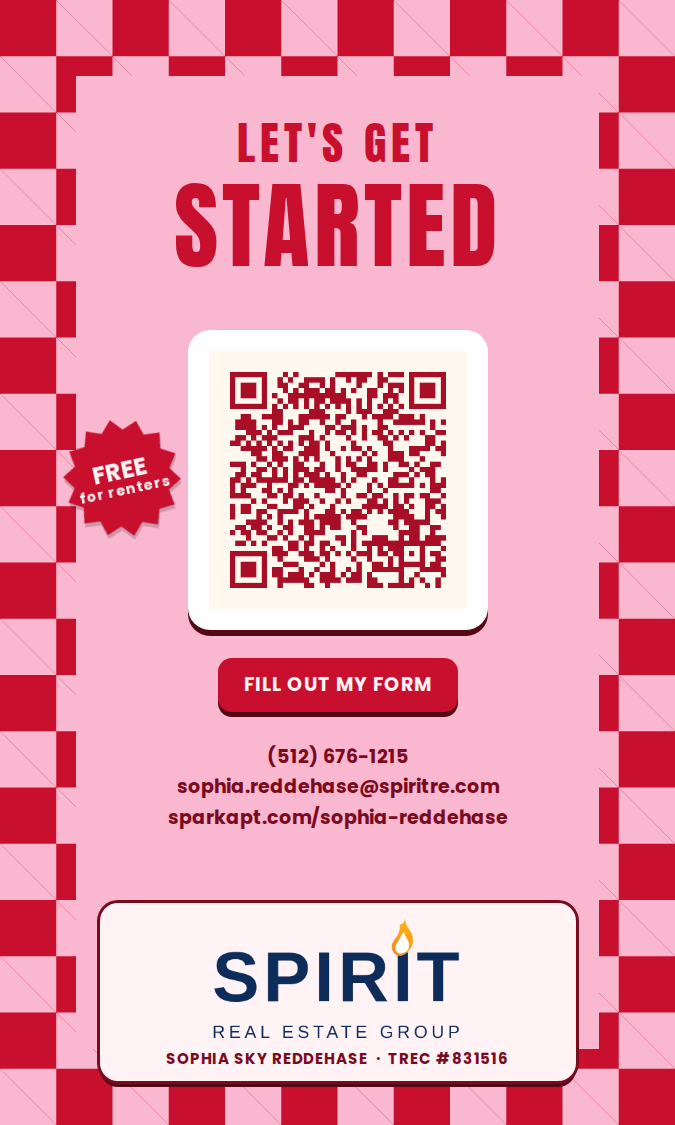
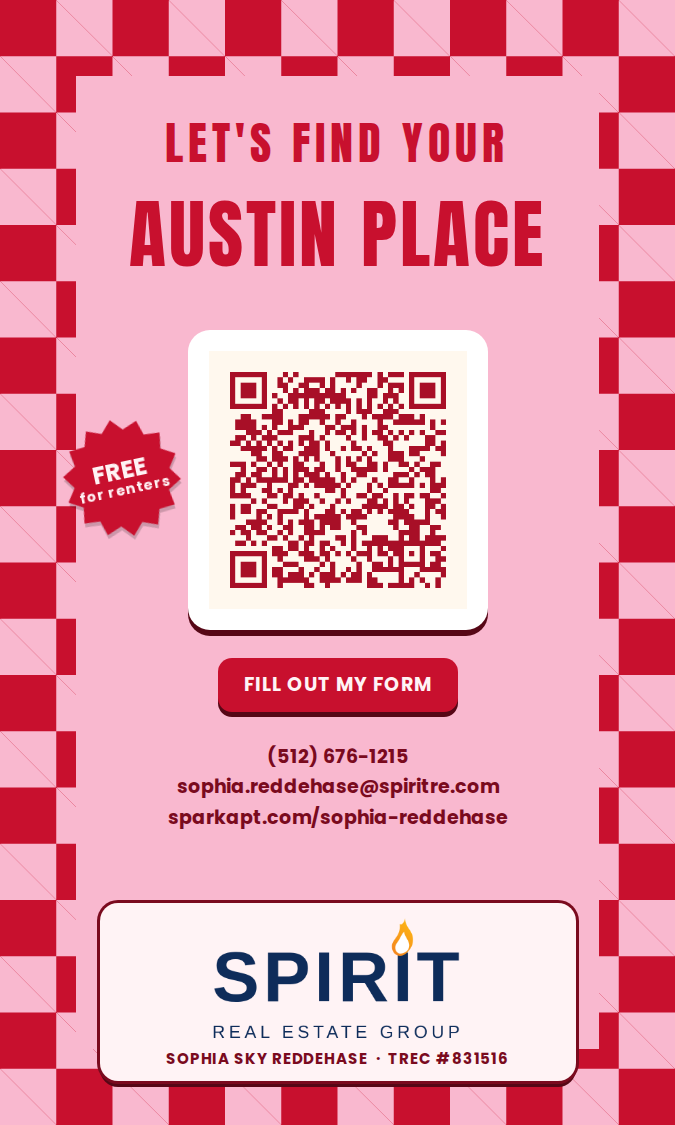
Austin wording on the three new verticals
She asked for the vertical cards' copy rephrased into apartment-locating
language for Austin, fitted in where it goes without disturbing layouts,
and skipped where it doesn't. So:

  Perfect Place  "I know a girl who finds the perfect apartment!" becomes
                 "...who finds apartments in Austin!" — same joke shape as
                 the reference, but it now says what she does and where
  Social Checks  "LET'S GET / STARTED" becomes "LET'S FIND YOUR / AUSTIN
                 PLACE"; 96px to 76px so the longer line still fits the
                 panel, which also improves its ratio
  all three      role line reads "Austin Apartment Locator"

The thirteen landscape styles keep "Texas Apartment Locator" — the change
had nowhere to go on them without moving type she has already signed off,
and several of their backs already carry "Austin & surrounding areas".

Social Checks' lower panel was left empty by the shorter stack; three
sparkles in the card's own pink fill it rather than more words.

No colour changed. All 32 faces were already on the original navy-and-flame
Spirit artwork; the only other navy in the suite is Terracotta Cobalt's own
cobalt, which it has had from the start.

Regenerating the verticals resets the FREE sticker positions, so the solver
and its check ran again afterwards: every sticker still clears the code and
the type, all 16 codes decode, all 32 exports are their target size, no
[…]

Changed region(s): [[0.1867, 0.0933, 0.8089, 0.2489]]

diff --git a/business_cards/cards_v2/14_social_checks/front.html b/business_cards/cards_v2/14_social_checks/front.html
@@ -63,6 +63,9 @@
 
     <div class="sparkle" style="top:170px; left:104px;"><svg width="46" height="46" viewBox="0 0 40 40"><path d="M20 1 C21.6 12 28 18.4 39 20 C28 21.6 21.6 28 20 39 C18.4 28 12 21.6 1 20 C12 18.4 18.4 12 20 1 Z" fill="#f9b8cf"/></svg></div>
     <div class="sparkle" style="top:520px; left:540px;"><svg width="38" height="38" viewBox="0 0 40 40"><path d="M20 1 C21.6 12 28 18.4 39 20 C28 21.6 21.6 28 20 39 C18.4 28 12 21.6 1 20 C12 18.4 18.4 12 20 1 Z" fill="#f9b8cf"/></svg></div>
+    <div class="sparkle" style="top:762px; left:120px;"><svg width="52" height="52" viewBox="0 0 40 40"><path d="M20 1 C21.6 12 28 18.4 39 20 C28 21.6 21.6 28 20 39 C18.4 28 12 21.6 1 20 C12 18.4 18.4 12 20 1 Z" fill="#f9b8cf"/></svg></div>
+    <div class="sparkle" style="top:840px; left:212px;"><svg width="30" height="30" viewBox="0 0 40 40"><path d="M20 1 C21.6 12 28 18.4 39 20 C28 21.6 21.6 28 20 39 C18.4 28 12 21.6 1 20 C12 18.4 18.4 12 20 1 Z" fill="#f9b8cf"/></svg></div>
+    <div class="sparkle" style="top:756px; left:452px;"><svg width="40" height="40" viewBox="0 0 40 40"><path d="M20 1 C21.6 12 28 18.4 39 20 C28 21.6 21.6 28 20 39 C18.4 28 12 21.6 1 20 C12 18.4 18.4 12 20 1 Z" fill="#f9b8cf"/></svg></div>
 
     <!-- tall condensed caps, as on the pin -->
     <div class="name">
@@ -75,7 +78,7 @@
       </svg>
     </div>
 
-    <div class="role">Texas Apartment Locator</div>
+    <div class="role">Austin Apartment Locator</div>
     <div class="services">Relocation &nbsp;&#183;&nbsp; Second Chance &nbsp;&#183;&nbsp; First-Time Renters &nbsp;&#183;&nbsp; Luxury</div>
 
     <div class="brokermark">

diff --git a/business_cards/cards_v2/14_social_checks/back.html b/business_cards/cards_v2/14_social_checks/back.html
@@ -41,8 +41,7 @@
     box-shadow: 0 5px 0 #560716;
   }
   .free {
-    position: absolute; left: 63px; top: 419px;          
-     width: 118px; height: 118px;
+    position: absolute; left: 63px; top: 419px;   width: 118px; height: 118px;
     transform: rotate(-12deg); display: flex; align-items: center; justify-content: center;
     text-align: center; font-family: 'Poppins', sans-serif; font-weight: 800; font-size: 14px;
     line-height: 1.05; letter-spacing: 0.6px; color: #fff3f5;
@@ -72,8 +71,8 @@
     <div class="head">
       <svg width="523" height="180" viewBox="0 0 523 180" xmlns="http://www.w3.org/2000/svg">
         <g font-family="Anton" text-anchor="middle" fill="#c8102e">
-          <text x="261" y="52" font-size="46" letter-spacing="5">LET'S GET</text>
-          <text x="261" y="156" font-size="96" letter-spacing="4">STARTED</text>
+          <text x="261" y="52" font-size="46" letter-spacing="5">LET'S FIND YOUR</text>
+          <text x="261" y="156" font-size="76" letter-spacing="3">AUSTIN PLACE</text>
         </g>
       </svg>
     </div>

diff --git a/business_cards/cards_v2/15_perfect_place/back.html b/business_cards/cards_v2/15_perfect_place/back.html
@@ -34,8 +34,7 @@
     box-shadow: 0 5px 0 #741e0b;
   }
   .free {
-    position: absolute; left: 67px; top: 459px;          
-     width: 118px; height: 118px;
+    position: absolute; left: 67px; top: 459px;   width: 118px; height: 118px;
     transform: rotate(-12deg); display: flex; align-items: center; justify-content: center;
     text-align: center; font-family: 'Poppins', sans-serif; font-weight: 800; font-size: 14px;
     line-height: 1.05; letter-spacing: 0.6px; color: #fff6ef;
@@ -69,7 +68,7 @@
           <text x="275" y="158" font-size="72">Reddehase</text>
         </g>
         <text x="275" y="212" text-anchor="middle" font-family="Poppins" font-weight="700" font-size="18"
-              letter-spacing="5" fill="#a82d12">TEXAS APARTMENT LOCATOR</text>
+              letter-spacing="5" fill="#a82d12">AUSTIN APARTMENT LOCATOR</text>
       </svg>
     </div>
 

diff --git a/business_cards/cards_v2/15_perfect_place/front.html b/business_cards/cards_v2/15_perfect_place/front.html
@@ -49,13 +49,13 @@
           <text x="277" y="86">I know</text>
           <text x="277" y="196">a girl</text>
           <text x="277" y="306">who finds</text>
-          <text x="277" y="416">the perfect</text>
-          <text x="277" y="526">apartment!</text>
+          <text x="277" y="416">apartments</text>
+          <text x="277" y="526">in Austin!</text>
         </g>
       </svg>
     </div>
 
-    <div class="who"><div class="name">Sophia Sky Reddehase</div><div class="role">Texas Apartment Locator</div></div>
+    <div class="who"><div class="name">Sophia Sky Reddehase</div><div class="role">Austin Apartment Locator</div></div>
     <div class="services">Relocation &nbsp;&#183;&nbsp; Second Chance &nbsp;&#183;&nbsp; First-Time Renters &nbsp;&#183;&nbsp; Luxury</div>
 
     <div class="brokermark">

diff --git a/business_cards/cards_v2/16_chunky_diagonal/back.html b/business_cards/cards_v2/16_chunky_diagonal/back.html
@@ -31,8 +31,7 @@
     box-shadow: 0 5px 0 #5e1806;
   }
   .free {
-    position: absolute; left: 359px; top: 487px;          
-     width: 118px; height: 118px;
+    position: absolute; left: 359px; top: 487px;   width: 118px; height: 118px;
     transform: rotate(-12deg); display: flex; align-items: center; justify-content: center;
     text-align: center; font-family: 'Poppins', sans-serif; font-weight: 800; font-size: 14px;
     line-height: 1.05; letter-spacing: 0.6px; color: #fff6ef;

diff --git a/business_cards/cards_v2/16_chunky_diagonal/front.html b/business_cards/cards_v2/16_chunky_diagonal/front.html
@@ -80,7 +80,7 @@
       </svg>
     </div>
 
-    <div class="role">Texas Apartment Locator</div>
+    <div class="role">Austin Apartment Locator</div>
     <div class="services">Relocation &nbsp;&#183;&nbsp; Second Chance &nbsp;&#183;&nbsp; First-Time Renters &nbsp;&#183;&nbsp; Luxury</div>
 
     <div class="brokermark">

diff --git a/business_cards/cards_v2/11_exact_groovy_social/front.html b/business_cards/cards_v2/11_exact_groovy_social/front.html
@@ -111,7 +111,7 @@
 
   /* FREE, as a sticker on the corner of the QR tile */
   .free {
-    position: absolute; left: 215px; top: 275px;        
+    position: absolute; left: 215px; top: 275px;            
     
     
     

diff --git a/business_cards/cards_v2/1_cherry_checkers/back.html b/business_cards/cards_v2/1_cherry_checkers/back.html
@@ -112,7 +112,7 @@
 
   /* FREE, as a sticker on the corner of the QR tile */
   .free {
-    position: absolute; left: 687px; top: 343px;        
+    position: absolute; left: 687px; top: 343px;            
     
     
     

diff --git a/business_cards/cards_v2/2_marshmallow_pink/back.html b/business_cards/cards_v2/2_marshmallow_pink/back.html
@@ -108,7 +108,7 @@
 
   /* FREE, as a sticker on the corner of the QR tile */
   .free {
-    position: absolute; left: 687px; top: 343px;        
+    position: absolute; left: 687px; top: 343px;            
     
     
     

diff --git a/business_cards/cards_v2/3_terracotta_cobalt/back.html b/business_cards/cards_v2/3_terracotta_cobalt/back.html
@@ -112,7 +112,7 @@
 
   /* FREE, as a sticker on the corner of the QR tile */
   .free {
-    position: absolute; left: 687px; top: 343px;        
+    position: absolute; left: 687px; top: 343px;            
     
     
     

diff --git a/business_cards/cards_v2/4_y2k_sticker_pop/back.html b/business_cards/cards_v2/4_y2k_sticker_pop/back.html
@@ -112,7 +112,7 @@
 
   /* FREE, as a sticker on the corner of the QR tile */
   .free {
-    position: absolute; left: 687px; top: 343px;        
+    position: absolute; left: 687px; top: 343px;            
     
     
     

diff --git a/business_cards/cards_v2/5_sweet_suite/back.html b/business_cards/cards_v2/5_sweet_suite/back.html
@@ -224,7 +224,7 @@
 
   /* FREE, as a sticker on the corner of the QR tile */
   .free {
-    position: absolute; left: 127px; top: 139px;        
+    position: absolute; left: 127px; top: 139px;            
     
     
     
